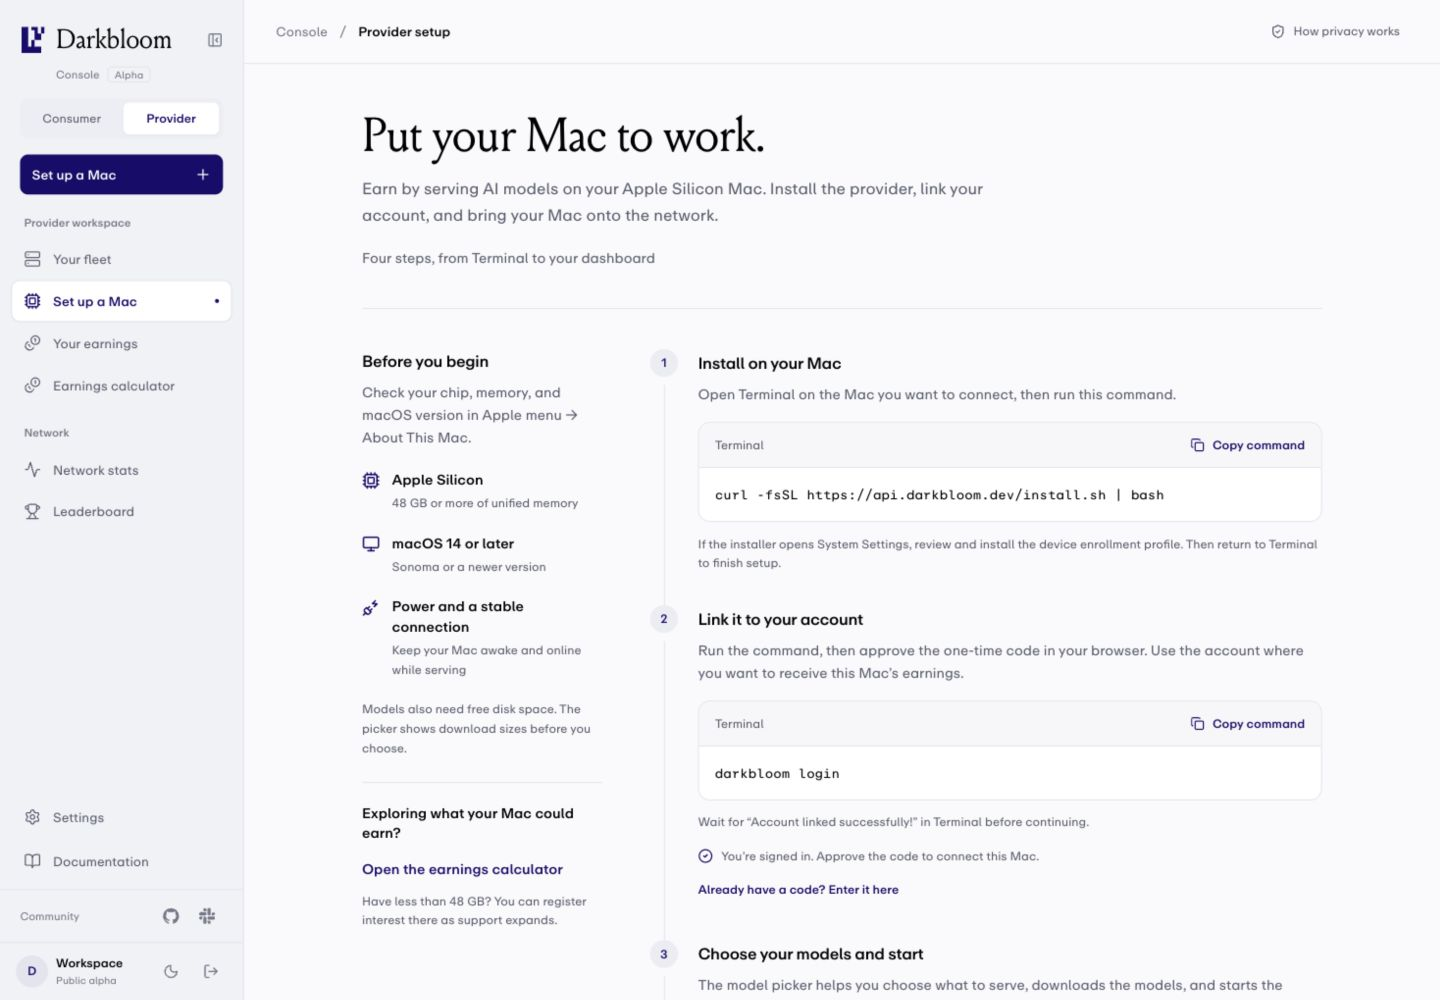
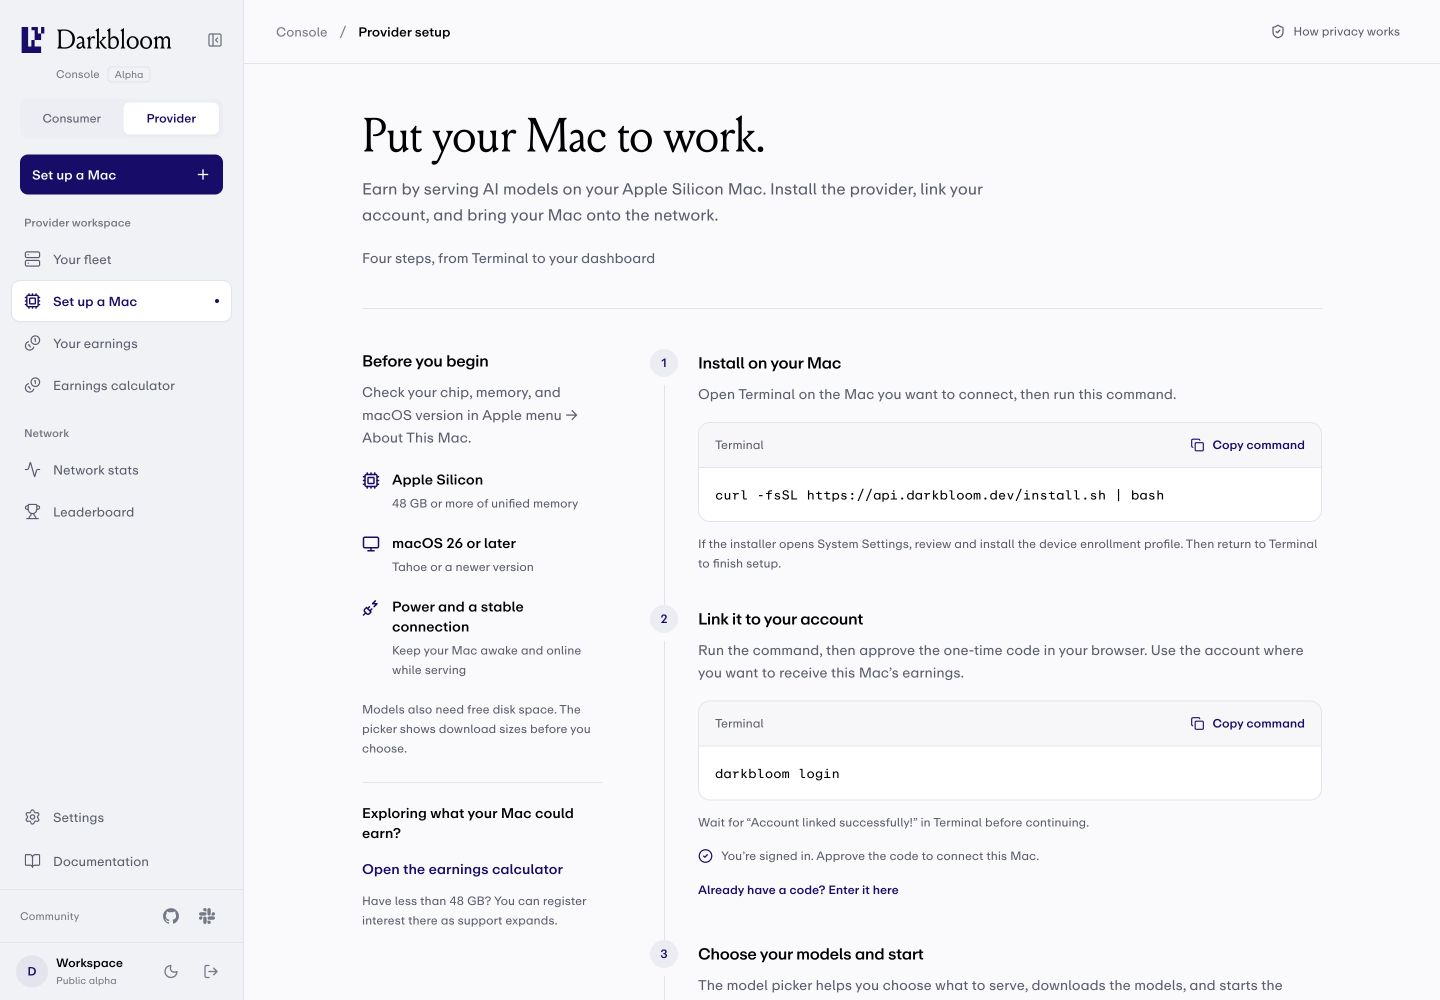
Correct provider onboarding requirement to macOS 26

diff --git a/console-ui/src/components/provider-onboarding/ProviderOnboarding.test.tsx b/console-ui/src/components/provider-onboarding/ProviderOnboarding.test.tsx
@@ -26,7 +26,7 @@ describe("ProviderOnboarding", () => {
 
     expect(screen.getByRole("heading", { name: "Put your Mac to work." })).toBeInTheDocument();
     expect(screen.getByText("48 GB or more of unified memory")).toBeInTheDocument();
-    expect(screen.getByText("macOS 14 or later")).toBeInTheDocument();
+    expect(screen.getByText("macOS 26 or later")).toBeInTheDocument();
     expect(screen.getByLabelText("Install on your Mac command")).toHaveTextContent("curl -fsSL https://api.darkbloom.dev/install.sh | bash");
     expect(screen.getByRole("link", { name: "Open the earnings calculator" })).toHaveAttribute("href", "/earn");
     fireEvent.click(screen.getByRole("button", { name: "Sign in to link your Mac" }));

diff --git a/console-ui/src/components/provider-onboarding/ProviderRequirements.tsx b/console-ui/src/components/provider-onboarding/ProviderRequirements.tsx
@@ -4,7 +4,7 @@ import { MIN_PROVIDER_MEMORY_GB } from "@/app/earn/providerReadiness";
 
 const REQUIREMENTS = [
   { icon: Cpu, title: "Apple Silicon", detail: `${MIN_PROVIDER_MEMORY_GB} GB or more of unified memory` },
-  { icon: Monitor, title: "macOS 14 or later", detail: "Sonoma or a newer version" },
+  { icon: Monitor, title: "macOS 26 or later", detail: "Tahoe or a newer version" },
   { icon: PlugZap, title: "Power and a stable connection", detail: "Keep your Mac awake and online while serving" },
 ];
 

diff --git a/docs/architecture/components/console-ui.md b/docs/architecture/components/console-ui.md
@@ -1,6 +1,6 @@
 # Console UI (`console-ui/`)
 
-> Last updated: 2026-09-04 · commit `e0e872bd8`
+> Last updated: 2026-09-04 · commit `dbd12f295`
 
 The console at `console.darkbloom.dev` is a Next.js 16 App Router / React 19 application (`console-ui/package.json`) that gives consumers a chat client, model catalog, network stats, billing, API-key management, and provider linking. The browser never calls the coordinator for authenticated work: every page fetches same-origin `/api/*` route handlers, which resolve the coordinator URL server-side and forward the caller's own credential. This page explains how those pieces fit; the coordinator routes they call are specified in [`../../reference/api-contracts.md`](../../reference/api-contracts.md). The internal, read-only operator dashboard is a separate app — see [`admin-ui.md`](admin-ui.md).
 
@@ -61,7 +61,9 @@ resolves consumer/provider routes first and the last workspace on shared stats
 and settings pages. Consumer navigation exposes chat, models, API, and billing;
 provider navigation exposes machines, setup, actual earnings, and the separate
 calculator. `ProviderOnboarding` is shared by public setup and empty/guest fleet
-views; its memory threshold comes from `MIN_PROVIDER_MEMORY_GB`.
+views; its memory threshold comes from `MIN_PROVIDER_MEMORY_GB`. The guide
+requires macOS 26 or later (`ProviderRequirements`,
+`console-ui/src/components/provider-onboarding/ProviderRequirements.tsx`).
 
 ```mermaid
 flowchart TD

diff --git a/CHANGELOG.md b/CHANGELOG.md
@@ -2,6 +2,7 @@
 
 ## Unreleased (2026-09-04) — console redesign
 
+- Provider onboarding specifies macOS 26 or later.
 - Added a Consumer/Provider entry page, dedicated `/chat` route, contextual workspace navigation, and public provider onboarding shared with the empty fleet. Linked providers return to their fleet and recorded earnings, including when their Macs are offline; failed discovery never implies an empty account.
 - Scoped fleet requests to the current account, cancelling late results on sign-out or account changes.
 - Redesigned console navigation, chat composition, searchable model discovery, settings, and API integration examples.
